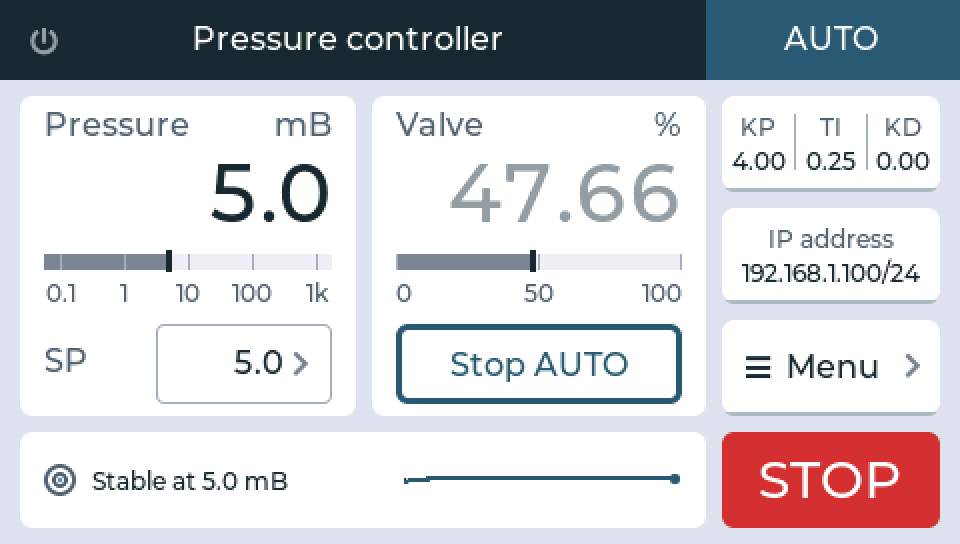
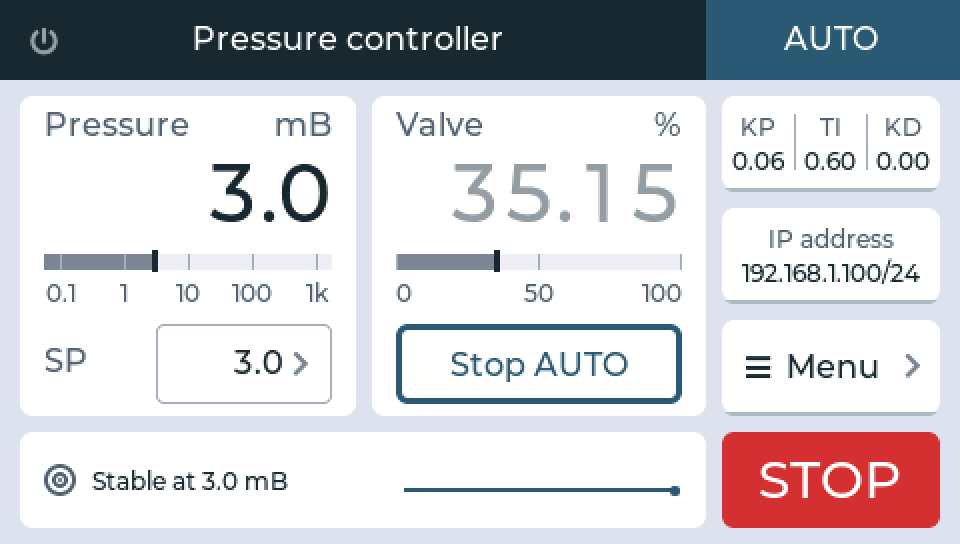
0.18.0: Home and W-2 captures on the factory gains, README table header, cryostat names
Claude-Session: https://claude.ai/code/session_01N4NW6zE46xisSA8EMqxgwy

diff --git a/README.md b/README.md
@@ -4,13 +4,13 @@ A pressure-based needle-valve controller for helium-flow cryostats.
 
 <img src="docs/screens/home-auto.png" width="480" alt="The Home screen in AUTO">
 
-Oxford Instruments cryostats (CF-10, CF-11, HM-2, AVM-1, AVM-2) draw helium through a needle valve driven by a geared stepper motor. The controller holds the pressure measured by a Druck transducer on the pumping line by moving that valve. It keeps the cryostat's existing transducer and valve.
+Oxford Instruments cryostats such as the CF-11 and CF-12 draw helium through a needle valve driven by a geared stepper motor. The controller holds the pressure measured by a Druck transducer on the pumping line by moving that valve. It keeps the cryostat's existing transducer and valve.
 
 Pressure is a rough proxy for the helium flow. The flow itself is not measured.
 
 ## At a glance
 
-| | |
+| Item | Detail |
 | --- | --- |
 | Controller | MikroE Mikromedia 4 (STM32F407ZG) with four Click boards. Bought modules only |
 | Operation | 4.3 in touchscreen: MANUAL (valve position in %) and AUTO (pressure held at a setpoint) |

diff --git a/docs/operation-manual.md b/docs/operation-manual.md
@@ -6,7 +6,7 @@ This manual covers day-to-day use of the iPC pressure controller: power-up, Shut
 
 | Field | Value |
 | --- | --- |
-| Equipment | iPC pressure-based needle-valve controller for helium-flow cryostats (CF-10, CF-11, HM-2, AVM-1, AVM-2) |
+| Equipment | iPC pressure-based needle-valve controller for helium-flow cryostats such as the CF-11 and CF-12 |
 | Hardware | MikroE Mikromedia 4 for STM32F4 with the Adapter, Pressure 21, Stepper 3, Boost 10 and Power Monitor Click boards; Druck UNIK 5000 15 psia transducer; geared unipolar stepper on the needle valve |
 | Firmware | 0.18.0 |
 | Sources | Firmware source in `firmware/`, `docs/firmware.md`, `docs/text-port-commands.md` and `docs/modbus-register-map.md` |
